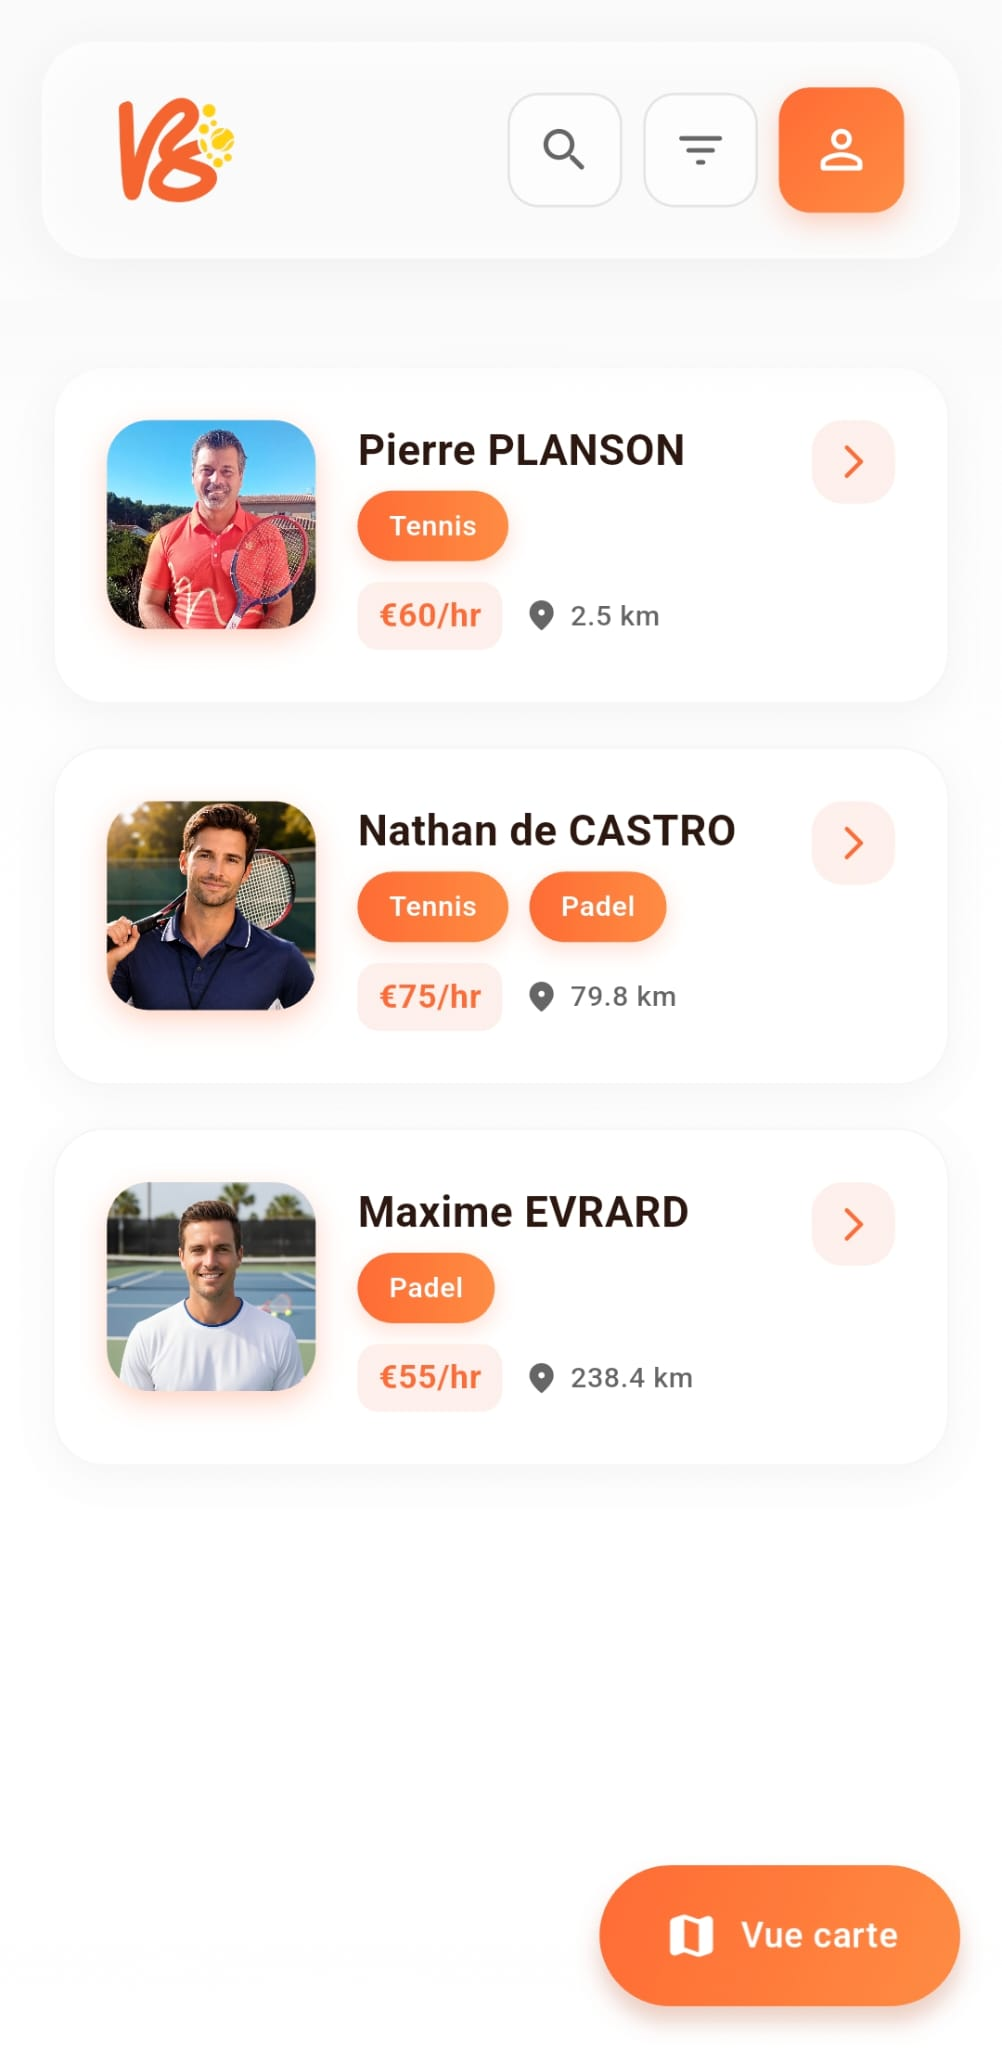
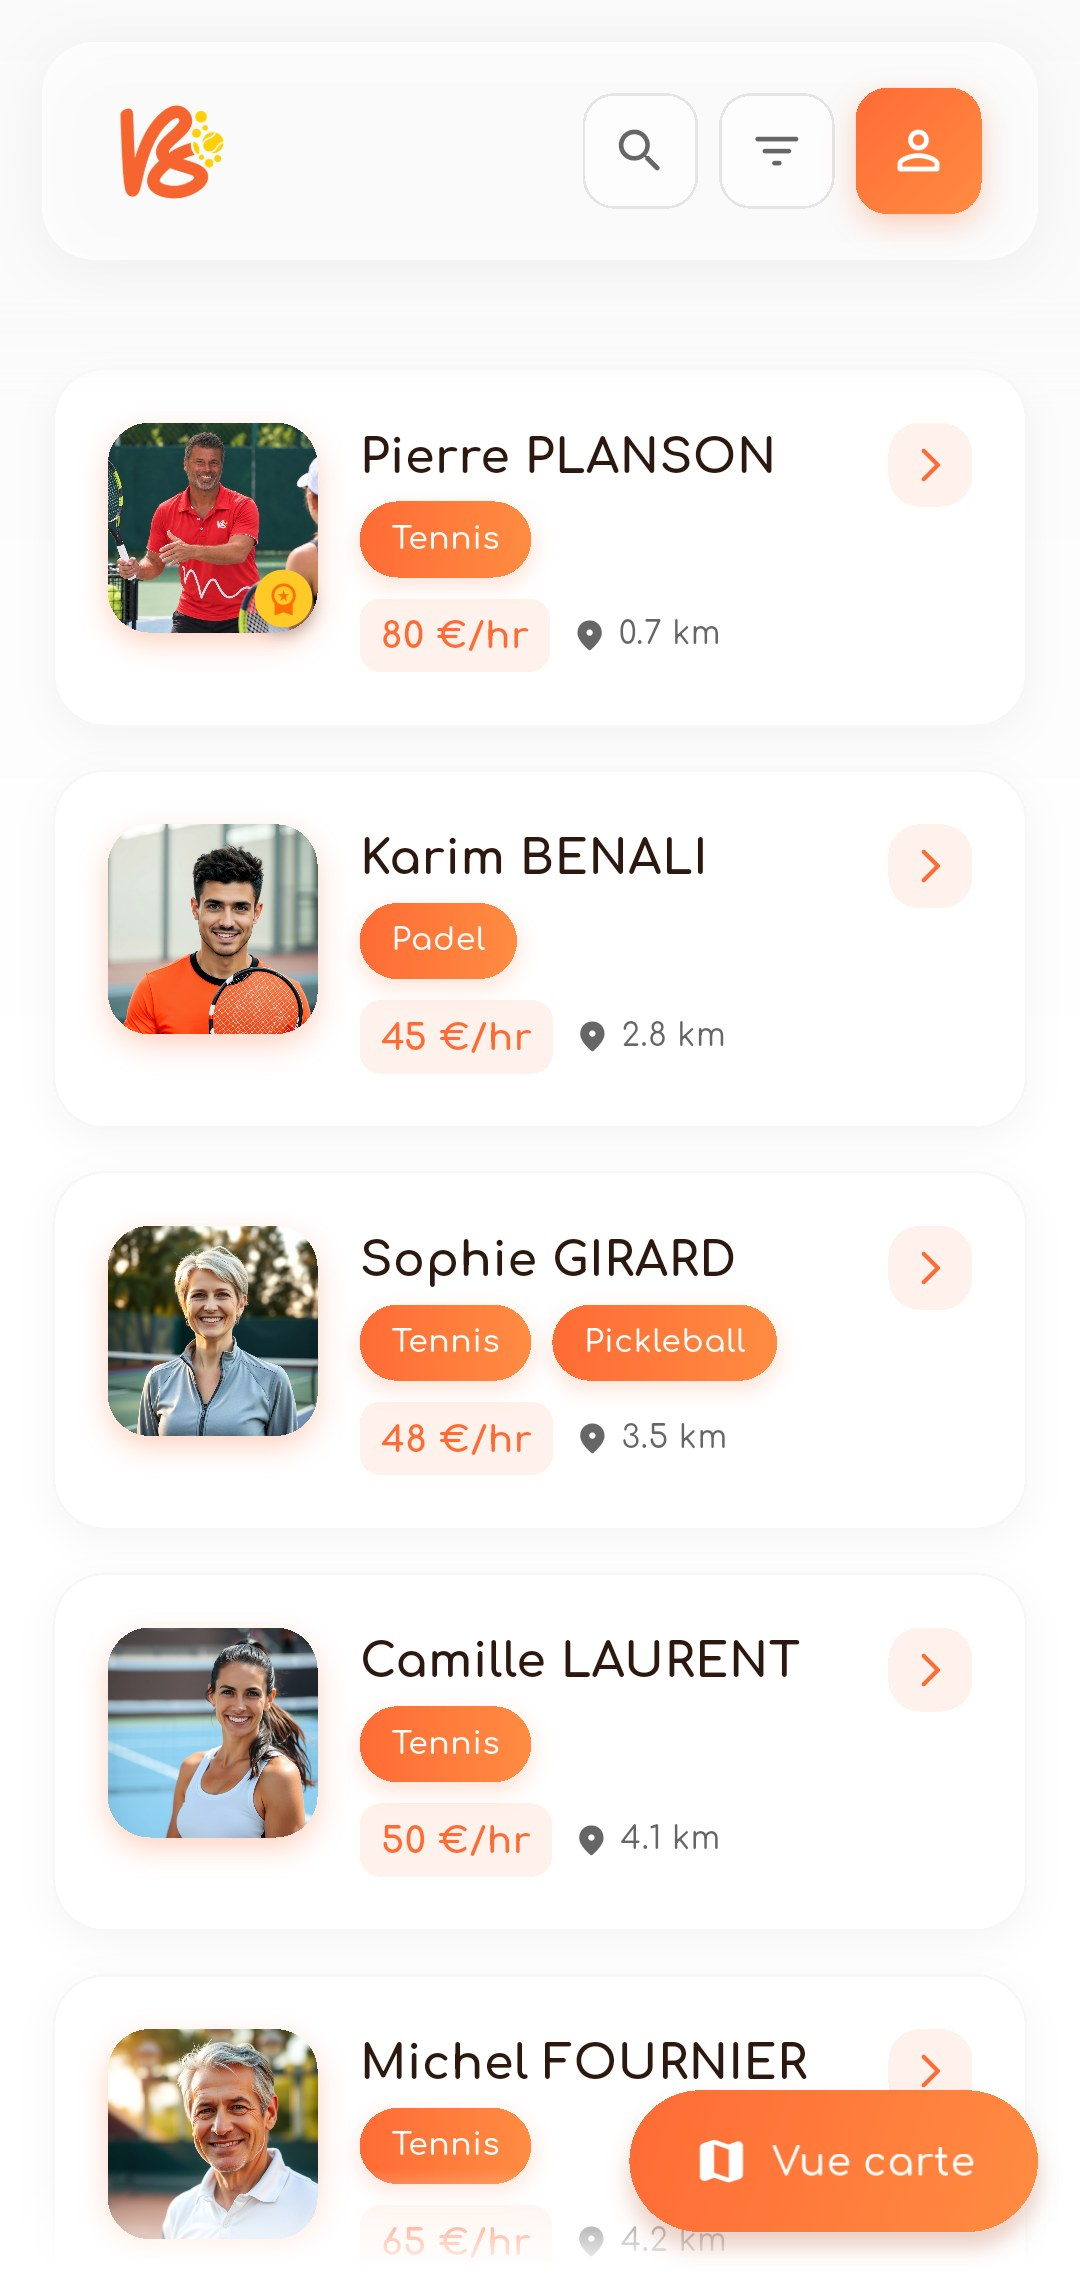
coldsnap: new SpinLab screenshots (6 screens, demo coaches)

diff --git a/coldsnap/data/projects.js b/coldsnap/data/projects.js
@@ -150,7 +150,9 @@ const COLDSNAP_PROJECTS = [
       'assets/projects/spinlab/spinlab-1.jpeg',
       'assets/projects/spinlab/spinlab-2.jpeg',
       'assets/projects/spinlab/spinlab-3.jpeg',
-      'assets/projects/spinlab/spinlab-4.jpeg'
+      'assets/projects/spinlab/spinlab-4.jpeg',
+      'assets/projects/spinlab/spinlab-5.jpeg',
+      'assets/projects/spinlab/spinlab-6.jpeg'
     ],
     tech: ['Flutter', 'Dart', 'Firebase', 'Stripe', 'Google Maps'],
     features: [
